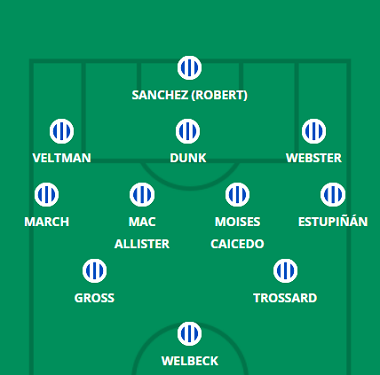
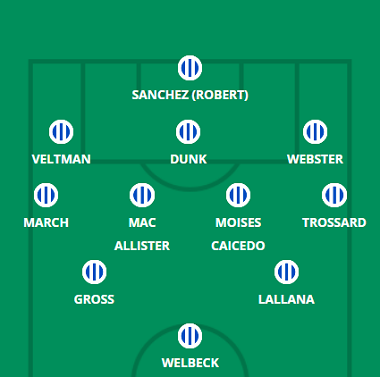
aston, brighton e fulham

diff --git a/brighton.html b/brighton.html
@@ -68,7 +68,7 @@
             <hgroup>
                 <h1> Provável Escalação</h1>
                 <h2 class="direita"> por FabioVascão </h2>
-                <h3 class="direita"> Atualizado em 14/Outubro/2022 </h3>
+                <h3 class="direita"> Atualizado em 17/Outubro/2022 </h3>
             </hgroup>
     
             <h2 class="time"> <img src="_fotos/_logos/logobrighton.png" />Brighton</h2>
@@ -77,9 +77,9 @@
                     <img src="_fotos/_dinamicas/brighton.png" />
                 </figure>
             </aside>
-                <div class="escalacao"><h2 class="titulo">Ultimas Notícias</h2> <h4><p>Jakub Moder (lesão no joelho), ausente de longa data, continua afastado, enquanto esta semana trouxe algumas notícias chocantes quando foi anunciado que Enock Mwepu teria que se aposentar com efeito imediato por motivos médicos. Brighton está livre de lesões e será interessante ver se Roberto De Zerbi desencadeia novas ideias táticas ou muda de pessoal depois de seguir amplamente o plano de Graham Potter desde sua nomeação. Todos, exceto Danny Welbeck e Pervis Estupinan, são titulares sempre presentes nesta temporada, com Welbeck agora estabelecido no time do Seagulls e carente de competição experiente no topo. Adam Lallana e, especialmente, o animado Kaoru Mitoma são os jogadores com maior probabilidade de entrar nesta equipa muito estável, com as aparições deste último fora do banco nas últimas semanas a chamarem a atenção. No entanto, nomes como Tariq Lamptey, Jeremy Sarmiento, Levi Colwill e Julio Enciso parecem ser meros reforços mais uma vez, no entanto, com De Zerbi dizendo no presser de quinta-feira que seria difícil para esse jovem quarteto substituir os regulares do time principal. que estão jogando tão bem no momento.</p></h4><br>
-                    <h4><strong>Jogadores fora da próxima partida:</strong> Moder e Mwepu</h4><br><br>
-                    <h4><strong>Jogadores dúvidas:</strong> </h4>
+                <div class="escalacao"><h2 class="titulo">Ultimas Notícias</h2> <h4><p>Kauro Mitoma (tornozelo) juntou-se ao ausente de longa data Jakub Moder (joelho) à margem, enquanto Roberto De Zerbi confirmou no pré-jogo de segunda-feira que os zagueiros Jan Paul van Hecke e Levi Colwill - que estavam ausentes na sexta-feira para Brentford - tem "alguns problemas". Não contente em nos dar algumas atualizações sobre lesões, De Zerbi foi mais longe ao declarar que Adam Lallana seria convocado para uma partida contra o Nottingham Forest. Essa seria a primeira mudança de titular do novo treinador do Brighton desde sua nomeação, mas não está muito claro para quem o meio-campista veterano entra, com Pascal Gross (o homem que Lallana substituiu como substituto na 11ª rodada) e Pervis Estupinan a chave mais provável abandonar. O próprio Estupinan foi fisgado ao intervalo no oeste de Londres, então, com Mitoma ausente, pudemos ver Leandro Trossard se mover para a lateral esquerda para acomodar o retorno de Lallana mais centralmente. Foi apenas na quinta-feira que De Zerbi disse que jovens como Tariq Lamptey, Jeremy Sarmiento e Julio Enciso teriam dificuldades para substituir os titulares do time principal agora, enquanto seus comentários pós 11° Rodada sobre não precisar "fazer [o XI inicial] mudanças porque o jogo foi bom" sugerem que a rotação generalizada não está prestes a acontecer - embora De Zerbi tenha admitido que a fadiga pode ser um fator com a reviravolta de sexta-feira. O histórico de lesões de Danny Welbeck pode ser algo que seu técnico considera, por exemplo, com Denis Undav esperando nos bastidores.</p></h4><br>
+                    <h4><strong>Jogadores fora da próxima partida:</strong> Mitoma, Moder e Mwepu</h4><br><br>
+                    <h4><strong>Jogadores dúvidas:</strong> Colwill e Van Hecke </h4>
                 </div> 
         </header>
         </article>

diff --git a/fulham.html b/fulham.html
@@ -68,7 +68,7 @@
             <hgroup>
                 <h1> Provável Escalação</h1>
                 <h2 class="direita"> por FabioVascão </h2>
-                <h3 class="direita"> Atualizado em 14/Outubro/2022 </h3>
+                <h3 class="direita"> Atualizado em 17/Outubro/2022 </h3>
             </hgroup>
     
             <h2 class="time"> <img src="_fotos/_logos/logofulham.png" />Fulham</h2>
@@ -77,9 +77,9 @@
                     <img src="_fotos/_dinamicas/fulham.png" />
                 </figure>
             </aside>
-                <div class="escalacao"><h2 class="titulo">Ultimas Notícias</h2> <h4><p>Aleksandar Mitrovic continua sendo uma dúvida considerável para o jogo do Bournemouth depois de lutar para se livrar de uma pancada que sofreu no intervalo internacional, com Marco Silva relatando na sexta-feira que ele só voltou aos treinos da equipe naquele dia após uma ausência de duas semanas e meia. Kenny Tete (lesão muscular), Nathaniel Chalobah (suspenso), Manor Solomon (lesão no joelho), Layvin Kurzawa (lesão na panturrilha) também estão de fora, mas Willian (lesão na panturrilha) pelo menos volta ao pensamento depois de um período à margem. As ausências de Kurzawa e Tete, bem como os comentários contundentes de Silva sobre Kevin Mbabu não estar no padrão exigido, sugerem que os quatro zagueiros permanecerão os mesmos, com os dois meio-campistas na frente deles entre os primeiros nomes da equipe. É mais adiante onde existem opções reais para o chefe do Fulham, com Willian e as alternativas recém-ajustadas de Harry Wilson e Dan James uma possibilidade no meio, tendo jogado lá no passado pelo Leeds.</p></h4><br>
-                    <h4><strong>Jogadores fora da próxima partida:</strong> Tete, Kurzawa e Soloman</h4><br><br>
-                    <h4><strong>Jogadores dúvidas:</strong> Mitrovic e Chalobah </h4>
+                <div class="escalacao"><h2 class="titulo">Ultimas Notícias</h2> <h4><p>O Fulham não está em ação novamente até quinta-feira, então talvez não tenhamos notícias de Marco Silva antes do prazo da FPL. Kenny Tete (muscular), Nathaniel Chalobah (suspenso), Manor Solomon (joelho) e Layvin Kurzawa (panturrilha) foram os quatro jogadores que ficaram de fora no fim de semana, com Aleksandar Mitrovic voltando de um problema no pé para jogar 90 minutos contra o Bournemouth - embora o sérvio admitiu depois de tempo integral que "ainda não se recuperou completamente" e que estava tomando analgésicos. Os Cottagers têm pelo menos cinco dias saudáveis entre os jogos da 11° e 12° Rodada, o que deve ajudar as chances de Mitrovic de juntar partidas consecutivas, embora a reviravolta subsequente para a 13° Rodada possa ser uma preocupação. Carlos Vinicius é o reforço no ataque, se necessário, enquanto Silva pode recorrer a dois substitutos no intervalo que, segundo ele, causaram "grande impacto" contra o Cherries no sábado: Tom Cairney e Willian. A preocupação em jogar Cairney sobre Harrison Reed seria deixar muitas lacunas no meio do campo, mas seu controle de bola ajudou o Fulham a parar as separações do Bournemouth no fim de semana, para que o meio-campista de longa data pudesse entrar no acerto de contas por sua primeiro início de liga da temporada. Issa Diop substituiu Tosin Adarabioyo no meio-campo no que Silva descreveu como uma jogada "tática" na 11° Rodada.</p></h4><br>
+                    <h4><strong>Jogadores fora da próxima partida:</strong> Tete, Kurzawa, Soloman e Chalobah</h4><br><br>
+                    <h4><strong>Jogadores dúvidas:</strong> </h4>
                 </div> 
         </header>
         </article>

diff --git a/aston.html b/aston.html
@@ -68,7 +68,7 @@
             <hgroup>
                 <h1> Provável Escalação</h1>
                 <h2 class="direita"> por FabioVascão </h2>
-                <h3 class="direita"> Atualizado em 14/Outubro/2022 </h3>
+                <h3 class="direita"> Atualizado em 17/Outubro/2022 </h3>
             </hgroup>
     
             <h2 class="time"> <img src="_fotos/_logos/logoaston.png" />Aston Villa</h2>
@@ -77,7 +77,7 @@
                     <img src="_fotos/_dinamicas/aston.png" />
                 </figure>
             </aside>
-                <div class="escalacao"><h2 class="titulo">Ultimas Notícias</h2> <h4><p>Diego Carlos (lesão no tendão aquiles), Boubacar Kamara (lesão no joelho), Lucas Digne (lesão no joelho) e Ludwig Augustinsson (lesão na coxa) estão todos fora do confronto com o Chelsea, mas Leon Bailey (lesão muscular) foi aprovado e Matthew Cash está disponível, com sua ausência do treino de quinta-feira pré-planejado. O fato de Bailey ter treinado totalmente pela primeira vez na sexta-feira sugere que ele pode não ser capaz de começar, então pode ser novamente três de quatro de Emi Buendia, Philippe Coutinho, Ollie Watkins e Danny Ings para as posições de ataque. Isto é, claro, a menos que Jacob Ramsey seja redistribuído mais à frente, uma tática que Steven Gerrard usou ocasionalmente no passado, inclusive no recente empate com o Manchester City. Leander Dendoncker seria o favorito para começar se isso acontecesse novamente no domingo, com Morgan Sanson e Marvelous Nakamba ainda sem pisar em campo nesta temporada. Com Digne e Augustinsson ainda de fora, os quatro zagueiros devem permanecer inalterados.</p></h4><br>
+                <div class="escalacao"><h2 class="titulo">Ultimas Notícias</h2> <h4><p>Podemos não ter notícias de Steven Gerrard antes do prazo da 12° Rodada, mas Diego Carlos (aquiles), Boubacar Kamara (joelho), Lucas Digne (joelho) e Ludwig Augustinsson (coxa) estão todos prontos para perder o confronto com o Fulham, com o dois laterais-esquerdos devem estar a cerca de uma semana do retorno. A pressão continua a aumentar sobre o chefe do Villa, mas os primeiros 60 minutos do confronto de domingo com o Chelsea foram sem dúvida a melhor exibição do Villa em 2022/23, com Gerrard saudando os três primeiros em particular e dizendo que "se os jogadores puderem replicar a primeira hora em movimento, para a frente, eles não terão um problema". Essa exibição ofensiva mais positiva e quatro dias generosos de recuperação nesta semana movimentada podem ver as mudanças reduzidas ao mínimo, com uma rotação mais ampla talvez reservada para a 13° Rodada, quando os Vilões terão menos de 65 horas de tempo de recuperação. Emi Buendia e Philippe Coutinho são as alternativas no topo (o re-ajustado Leon Bailey teve seus minutos administrados contra o Chelsea, mas impressionou), enquanto Leander Dendoncker está na frente da fila nas reservas do meio-campo com Morgan Sanson e Marvelous Nakamba ainda por colocar o pé em campo nesta temporada. O erro de Tyrone Mings custou caro a Villa no domingo, mas Gerrard não jogará seu antigo capitão do clube sob o ônibus por isso e ele provavelmente fará parte de uma defesa inalterada no oeste de Londres.</p></h4><br>
                     <h4><strong>Jogadores fora da próxima partida:</strong> Augustinsson, Digne, Kamara e Diego Carlos</h4><br><br>
                     <h4><strong>Jogadores dúvidas:</strong> </h4>
                 </div> 

diff --git a/index.html b/index.html
@@ -39,22 +39,22 @@
         <article>
         <header id="noticia"> 
             <hgroup>
-                <h1> Escalação da  11° Rodada </h1>
+                <h1> Escalação da  12° Rodada </h1>
                 <h2> por FabioVascão </h2>
-                <h3> Atualizado em 14/Outubro/2022 </h3>
+                <h3> Atualizado em 17/Outubro/2022 </h3>
             </hgroup>
-            <h2 class="titulo">  11° Rodada da Premier League - Time do Canal </h2>
+            <h2 class="titulo">  12° Rodada da Premier League - Time do Canal </h2>
                 <div class="imagem">
                     <picture> 
-                        <img src="_fotos/_noticias/timecanal11g.png" alt="Escalação da 11° Rodada do Fantasy da Premier League" style="width:99.8%;">   
+                        <img src="_fotos/_noticias/timecanal12g.png" alt="Escalação da 12° Rodada do Fantasy da Premier League" style="width:99.8%;">   
                     </picture>
                 </div>
-            <h4><p><strong>Escalação:</strong> Neto, Trippier, Neco Willians, Cancelo, Andreas, Kevin de Bruyne, Maddison, Zaha, Wilson, Kane(C) e Haaland.</p></h4></br>
-            <h4><p><strong>Banco:</strong> Ward, Reed, Justin e Mings.</p></h4>
+            <h4><p><strong>Escalação:</strong> Ward, Trippier, Neco Willians, Justin, Andreas, Reed, Almirón, Zaha, Salah(C), Wilson e Kane.</p></h4></br>
+            <h4><p><strong>Banco:</strong> Neto, Mings, Cancelo e Haaland.</p></h4>
 
-            <h2 class="titulo"> Dicas para 11° Rodada </h2>  
+            <h2 class="titulo"> Dicas para 12° Rodada </h2>  
             <div class="video"> 
-                <iframe width="95%" height="315" src="https://www.youtube.com/embed/ZG5eOZl1YUo" title="YouTube video player" frameborder="0" allow="accelerometer; autoplay; clipboard-write; encrypted-media; gyroscope; picture-in-picture" allowfullscreen></iframe>      
+                <iframe width="95%" height="315" src="https://www.youtube.com/embed/rlFxfp2vXAg" title="YouTube video player" frameborder="0" allow="accelerometer; autoplay; clipboard-write; encrypted-media; gyroscope; picture-in-picture" allowfullscreen></iframe>  
             </div>
         </header>
         </article>

diff --git a/noticias.html b/noticias.html
@@ -40,6 +40,20 @@
         <article>
         <header id="noticia"> 
             <hgroup>
+                <h1> Escalação da  12° Rodada </h1>
+                <h2> por FabioVascão </h2>
+                <h3> Atualizado em 17/Outubro/2022 </h3>
+            </hgroup>
+            <h2 class="titulo">  12° Rodada da Premier League - Time do Canal </h2>
+                <div class="imagem">
+                    <picture> 
+                        <img src="_fotos/_noticias/timecanal12g.png" alt="Escalação da 12° Rodada do Fantasy da Premier League" style="width:99.8%;">   
+                    </picture>
+                </div>
+            <h4><p><strong>Escalação:</strong> Ward, Trippier, Neco Willians, Justin, Andreas, Reed, Almirón, Zaha, Salah(C), Wilson e Kane.</p></h4></br>
+            <h4><p><strong>Banco:</strong> Neto, Mings, Cancelo e Haaland.</p></h4>
+
+            <hgroup>
                 <h1> Escalação da  11° Rodada </h1>
                 <h2> por FabioVascão </h2>
                 <h3> Atualizado em 14/Outubro/2022 </h3>
